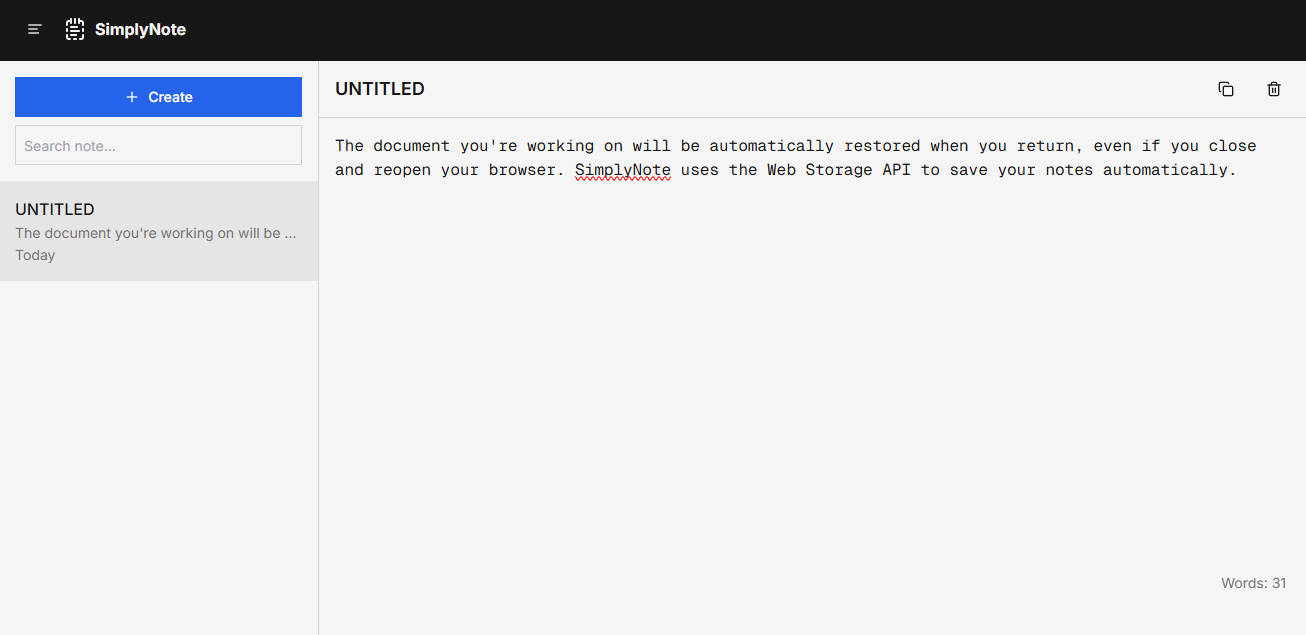
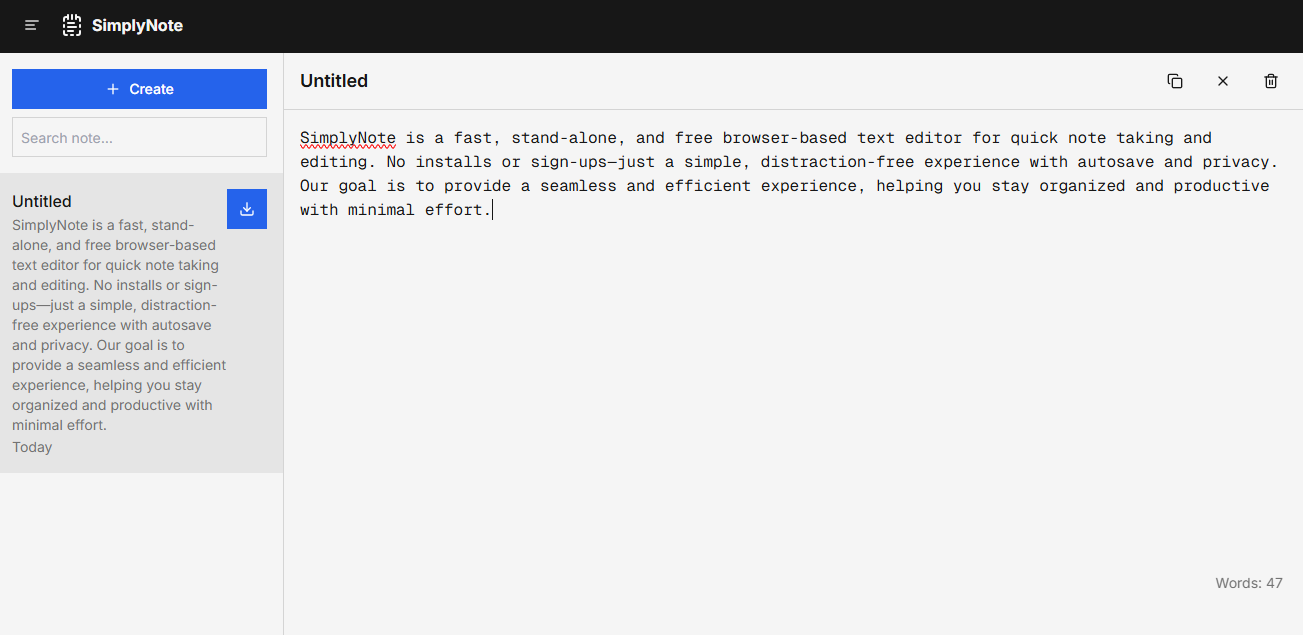
feat: sidebar update for UX

Changed region(s): [[0.0, 0.0299, 1.0, 0.7181], [0.921, 0.8976, 0.9823, 0.9276]]

diff --git a/src/components/notepad.tsx b/src/components/notepad.tsx
@@ -3,13 +3,23 @@
 import * as React from "react";
 import Link from "next/link";
 import { nanoid } from "nanoid";
-import { Check, Copy, X, Trash2, Plus, Loader2, AlignLeft } from "lucide-react";
+import {
+	Check,
+	Copy,
+	X,
+	Trash2,
+	Plus,
+	Loader2,
+	AlignLeft,
+	Download,
+} from "lucide-react";
 import { Icons } from "./icons";
 import { LOCAL_STORAGE_KEY } from "~/util/constants";
 import { formatDate } from "~/util/formatDate";
 import { getWordCount } from "~/util/getWordCount";
 import { Button } from "./ui/button";
 import { geistMono } from "~/util/fonts";
+import { useMediaQuery } from "~/hooks/use-media-query";
 
 type Note = {
 	id: string;
@@ -27,6 +37,7 @@ export function Notepad() {
 	const [error, setError] = React.useState<string | null>(null);
 	const [isClient, setIsClient] = React.useState(false);
 	const [isSidebarOpen, setIsSidebarOpen] = React.useState(true);
+	const isMobile = useMediaQuery("(max-width: 767px)");
 
 	React.useEffect(() => {
 		setIsClient(true);
@@ -98,12 +109,52 @@ export function Notepad() {
 		);
 	}
 
+	function clearNoteContent() {
+		if (!activeNote) {
+			return;
+		}
+
+		if (!activeNote.content) {
+			setError("You cannot clear an empty string. Please try again.");
+			return;
+		}
+
+		const clearedNote = {
+			...activeNote,
+			content: "",
+			lastModified: new Date().toISOString(),
+		};
+
+		setActiveNote(clearedNote);
+		setNotes(
+			notes.map((note) => (note.id === activeNote.id ? clearedNote : note)),
+		);
+		setError(null);
+	}
+
 	function deleteNote(id: string) {
 		setNotes(notes.filter((note) => note.id !== id));
 		if (activeNote?.id === id) {
 			setActiveNote(
 				notes.length > 1 ? notes.find((n) => n.id !== id) || null : null,
 			);
+		}
+	}
+
+	function exportNote(note: Note) {
+		const element = document.createElement("a");
+		const file = new Blob([note.content], { type: "text/plain" });
+		element.href = URL.createObjectURL(file);
+		element.download = `${note.title}-${new Date().toISOString()}.txt`;
+		document.body.appendChild(element);
+		element.click();
+		document.body.removeChild(element);
+	}
+
+	function setActiveNoteAndCloseSidebar(note: Note) {
+		setActiveNote(note);
+		if (isMobile) {
+			setIsSidebarOpen(false);
 		}
 	}
 
@@ -115,6 +166,7 @@ export function Notepad() {
 
 		navigator.clipboard.writeText(content).then(() => {
 			setInteracted(true);
+			setError(null);
 
 			setTimeout(() => {
 				setInteracted(false);
@@ -130,7 +182,7 @@ export function Notepad() {
 
 	return (
 		<div className="h-screen flex flex-col">
-			<div className="bg-neutral-900 text-neutral-100 flex items-center gap-2 px-4 py-3">
+			<div className="bg-neutral-900 text-neutral-100 flex items-center gap-2 h-14 px-4">
 				<Button
 					variant="ghost"
 					size="icon"
@@ -146,10 +198,10 @@ export function Notepad() {
 			</div>
 
 			{error && (
-				<div className="bg-red-600 text-white block px-3 py-1" role="alert">
+				<div className="bg-red-600 text-white block px-3 py-0.5" role="alert">
 					<div className="flex items-center justify-between w-full">
 						<div className="flex items-center">
-							<p className="text-sm">{error}</p>
+							<p className="text-xs font-medium">{error}</p>
 						</div>
 						<div className="flex items-center">
 							<Button
@@ -168,7 +220,11 @@ export function Notepad() {
 			<div className="flex flex-1 overflow-hidden">
 				<aside
 					className={`border-r border-neutral-300 flex flex-col transition-all duration-300 ${
-						isSidebarOpen ? "w-80" : "w-0 overflow-hidden"
+						isSidebarOpen
+							? isMobile
+								? "w-full"
+								: "w-80"
+							: "w-0 overflow-hidden"
 					}`}
 				>
 					<div className="p-4">
@@ -177,7 +233,7 @@ export function Notepad() {
 								className="bg-blue-600 text-white rounded-none transition hover:bg-blue-700 w-full"
 								onClick={createNote}
 							>
-								<Plus className="h-5 w-5" /> Create
+								<Plus className="h-5 w-5" /> Create Note
 							</Button>
 							<input
 								value={searchQuery}
@@ -195,16 +251,28 @@ export function Notepad() {
 									className={`cursor-pointer block p-4 transition hover:bg-neutral-200 ${
 										activeNote?.id === note.id ? "bg-neutral-200" : ""
 									}`}
-									onClick={() => setActiveNote(note)}
+									onClick={() => setActiveNoteAndCloseSidebar(note)}
 								>
-									<div className="flex flex-col space-y-0.5">
-										<h3 className="font-medium">{note.title}</h3>
-										<p className="text-sm text-neutral-500 truncate">
-											{note.content || "Blank"}
-										</p>
-										<p className="text-sm text-neutral-500">
-											{formatDate(note.lastModified, isClient)}
-										</p>
+									<div className="flex justify-between w-full">
+										<div className="flex flex-col space-y-0.5">
+											<h3 className="font-medium">{note.title}</h3>
+											<p className="text-sm text-neutral-500 whitespace-pre-wrap truncate">
+												{note.content || "Blank"}
+											</p>
+											<p className="text-sm text-neutral-500">
+												{formatDate(note.lastModified, isClient)}
+											</p>
+										</div>
+										<div className="flex justify-end">
+											<Button
+												title="Export"
+												size="icon"
+												className="rounded-none bg-blue-600 text-white transition hover:bg-blue-700"
+												onClick={() => exportNote(note)}
+											>
+												<Download className="size-4" />
+											</Button>
+										</div>
 									</div>
 								</div>
 							))}
@@ -236,6 +304,14 @@ export function Notepad() {
 											)}
 										</Button>
 										<Button
+											title="Clear Text"
+											size="icon"
+											className="bg-transparent text-neutral-900 rounded-none transition hover:bg-neutral-200"
+											onClick={clearNoteContent}
+										>
+											<X className="size-4" />
+										</Button>
+										<Button
 											title="Delete Note"
 											size="icon"
 											className="bg-transparent text-neutral-900 rounded-none transition hover:bg-neutral-200"
@@ -259,7 +335,7 @@ export function Notepad() {
 							</div>
 						</>
 					) : (
-						<div className="flex h-full items-center justify-center text-neutral-500">
+						<div className="flex h-full items-center justify-center text-neutral-500 ml-4 md:ml-0">
 							{isClient ? (
 								"Select a note or create a new one to get started"
 							) : (

diff --git a/src/hooks/use-media-query.ts b/src/hooks/use-media-query.ts
@@ -1,0 +1,17 @@
+import * as React from "react";
+
+export function useMediaQuery(query: string): boolean {
+	const [matches, setMatches] = React.useState<boolean>(false);
+
+	React.useEffect(() => {
+		const media = window.matchMedia(query);
+		if (media.matches !== matches) {
+			setMatches(media.matches);
+		}
+		const listener = () => setMatches(media.matches);
+		media.addListener(listener);
+		return () => media.removeListener(listener);
+	}, [matches, query]);
+
+	return matches;
+}

diff --git a/src/app/(index)/page.tsx b/src/app/(index)/page.tsx
@@ -35,7 +35,7 @@ export default function IndexPage() {
 					src="/hero-image.png"
 					width={800}
 					height={400}
-					alt=""
+					alt="hero-image"
 					priority
 					className="rounded-lg shadow-2xl"
 				/>
